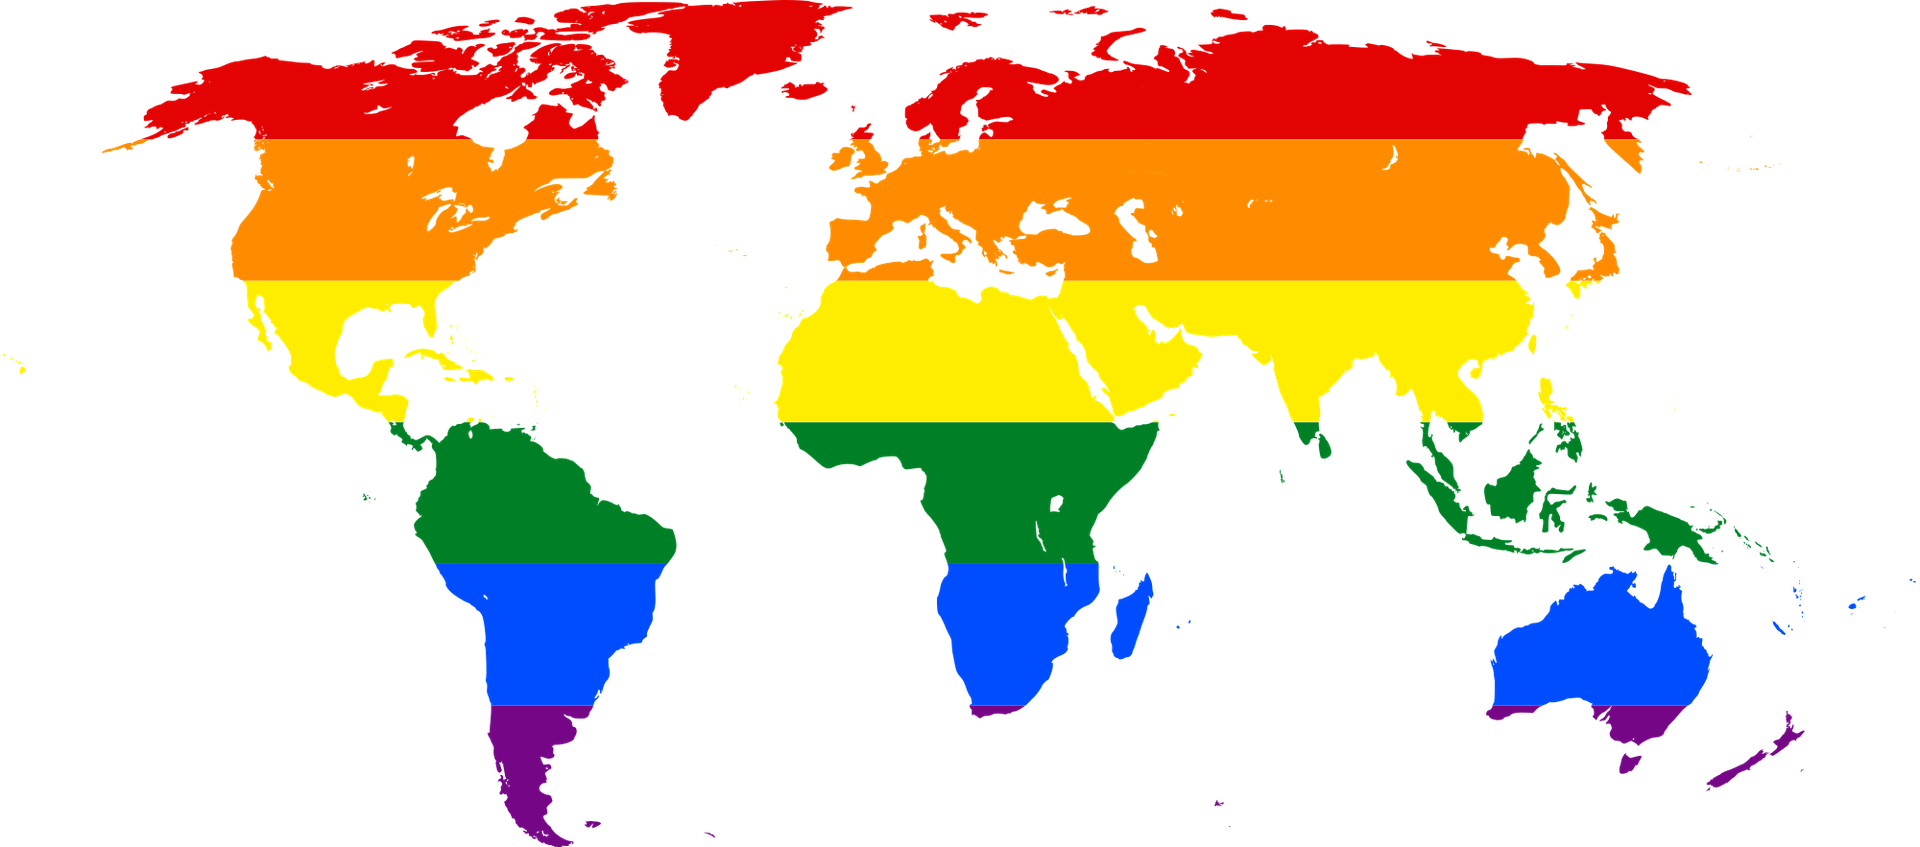
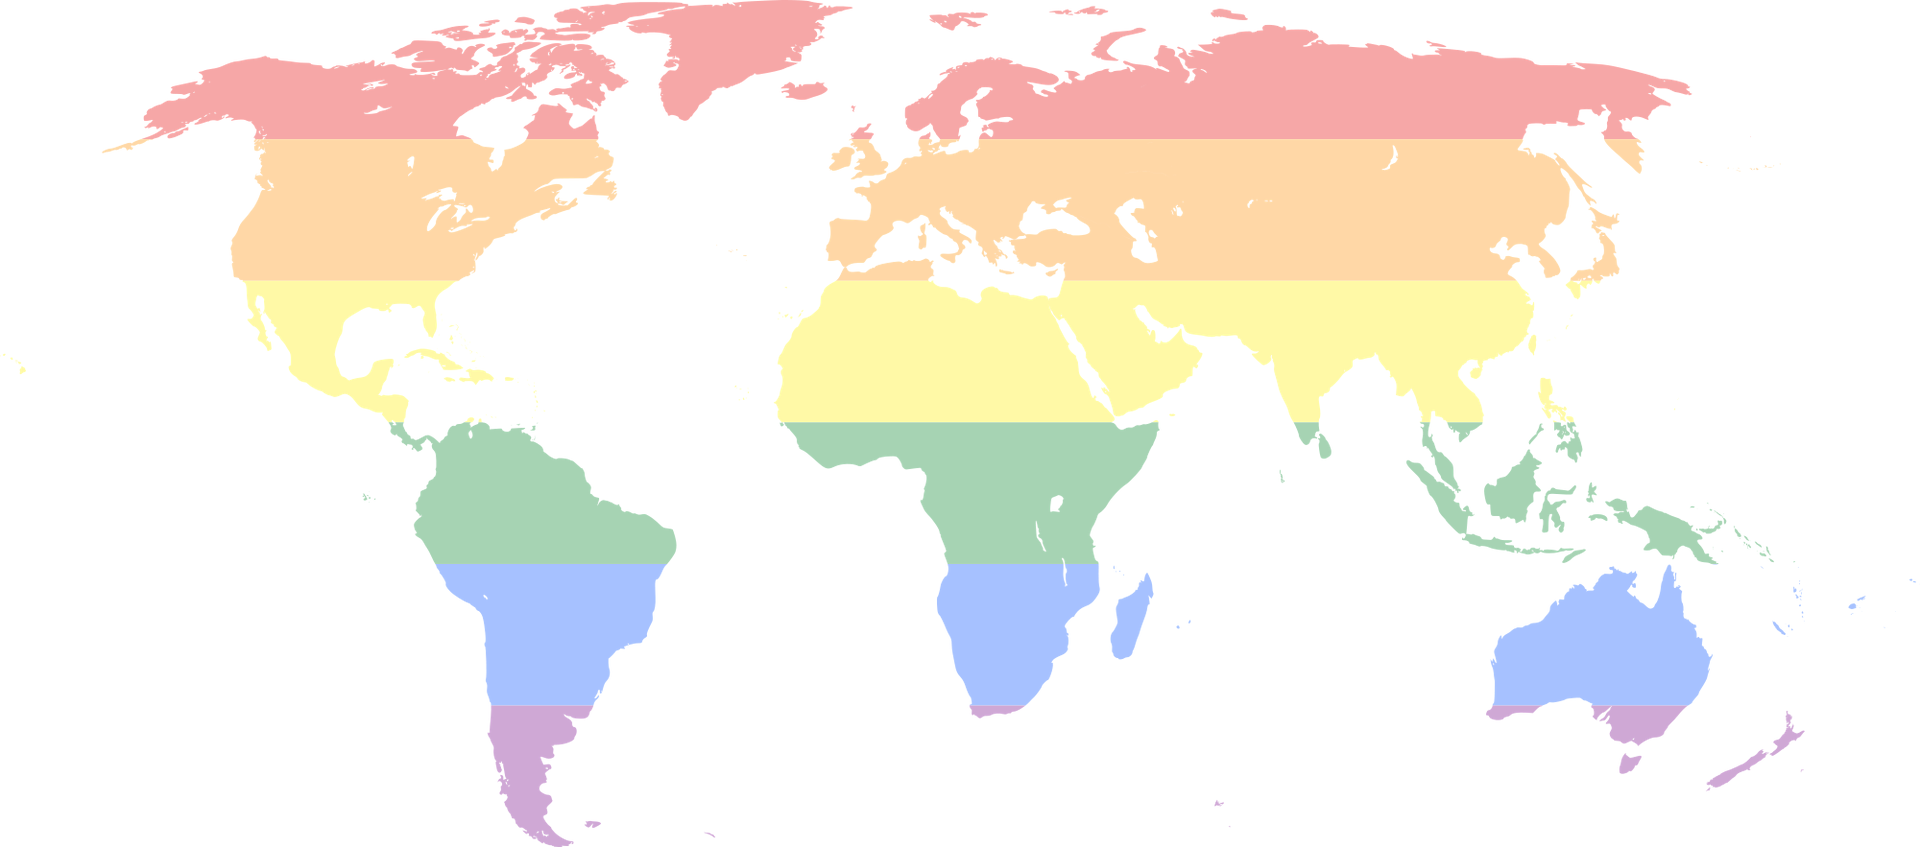
updated css for landing component

Changed region(s): [[0.4062, 0.0, 0.9375, 0.9209], [0.0625, 0.0, 0.4375, 1.0], [0.4688, 0.0, 0.5312, 0.0307]]

diff --git a/src/components/landing/Landing.js b/src/components/landing/Landing.js
@@ -27,9 +27,8 @@ class Landing extends Component {
 
    render() {
       return (
-         <div className="container landing-container">
+         <div className="landing-container">
             <div className="landing-jumbotron">
-               <div className="landing-bg"></div>
                <h1 id="landing-title">KNSEY</h1>
                <p id="subtitle">See how queer friendly your city is.</p>
                <Geocoder
@@ -40,10 +39,10 @@ class Landing extends Component {
                inputPlaceholder='Search for city...'
                types='place'
                />
-               <div className="ranking-container">
-                  <p id="subtitle">Rank a city using your current location.</p>
-                  <Link to="/create"><button className="btn center"><i className="fas fa-location-arrow"></i></button></Link>
-               </div>
+            </div>
+            <div className="ranking-container">
+               <p id="subtitle">Rank a city using your current location.</p>
+               <Link to="/create"><button className="btn center"><i className="fas fa-location-arrow"></i></button></Link>
             </div>
          </div>
       )

diff --git a/src/index.css b/src/index.css
@@ -185,35 +185,30 @@ nav .brand-logo {
 .landing-jumbotron {
   display: flex;
   flex-direction: column;
-  justify-content: center;
-  height: 100%;
-  width: 100%;
+  justify-content: space-around;
+  min-height: 100%;
+  width: 960px;
+  margin: 0 auto;
 }
 
 .landing-container {
+  background: url('./assets/images/rainbow_world_map.png') no-repeat center center fixed;
   z-index: 1;
   position: relative;
-}
-
-.landing-bg {
-  background: url('./assets/images/rainbow_world_map.png') no-repeat center center fixed;
-  position: absolute;
-  z-index: -1;
-  top: 0;
-  bottom: 0;
-  left: 0;
-  right: 0;
-  height: 100%;
-  width: 100%;
-  opacity: 0.3;
-  width: 100%;
-  height: 100%;
+  min-height: 100%;
+  display: flex;
+  flex-direction: column;
+  justify-content: center;
 }
 
 .ranking-container {
   display: flex;
   flex-direction: column;
   align-items: center;
+  position: absolute;
+  bottom: 35px;
+  margin: 0 auto;
+  width: 100%;
 }
 
 @media (max-width: 915px) {
